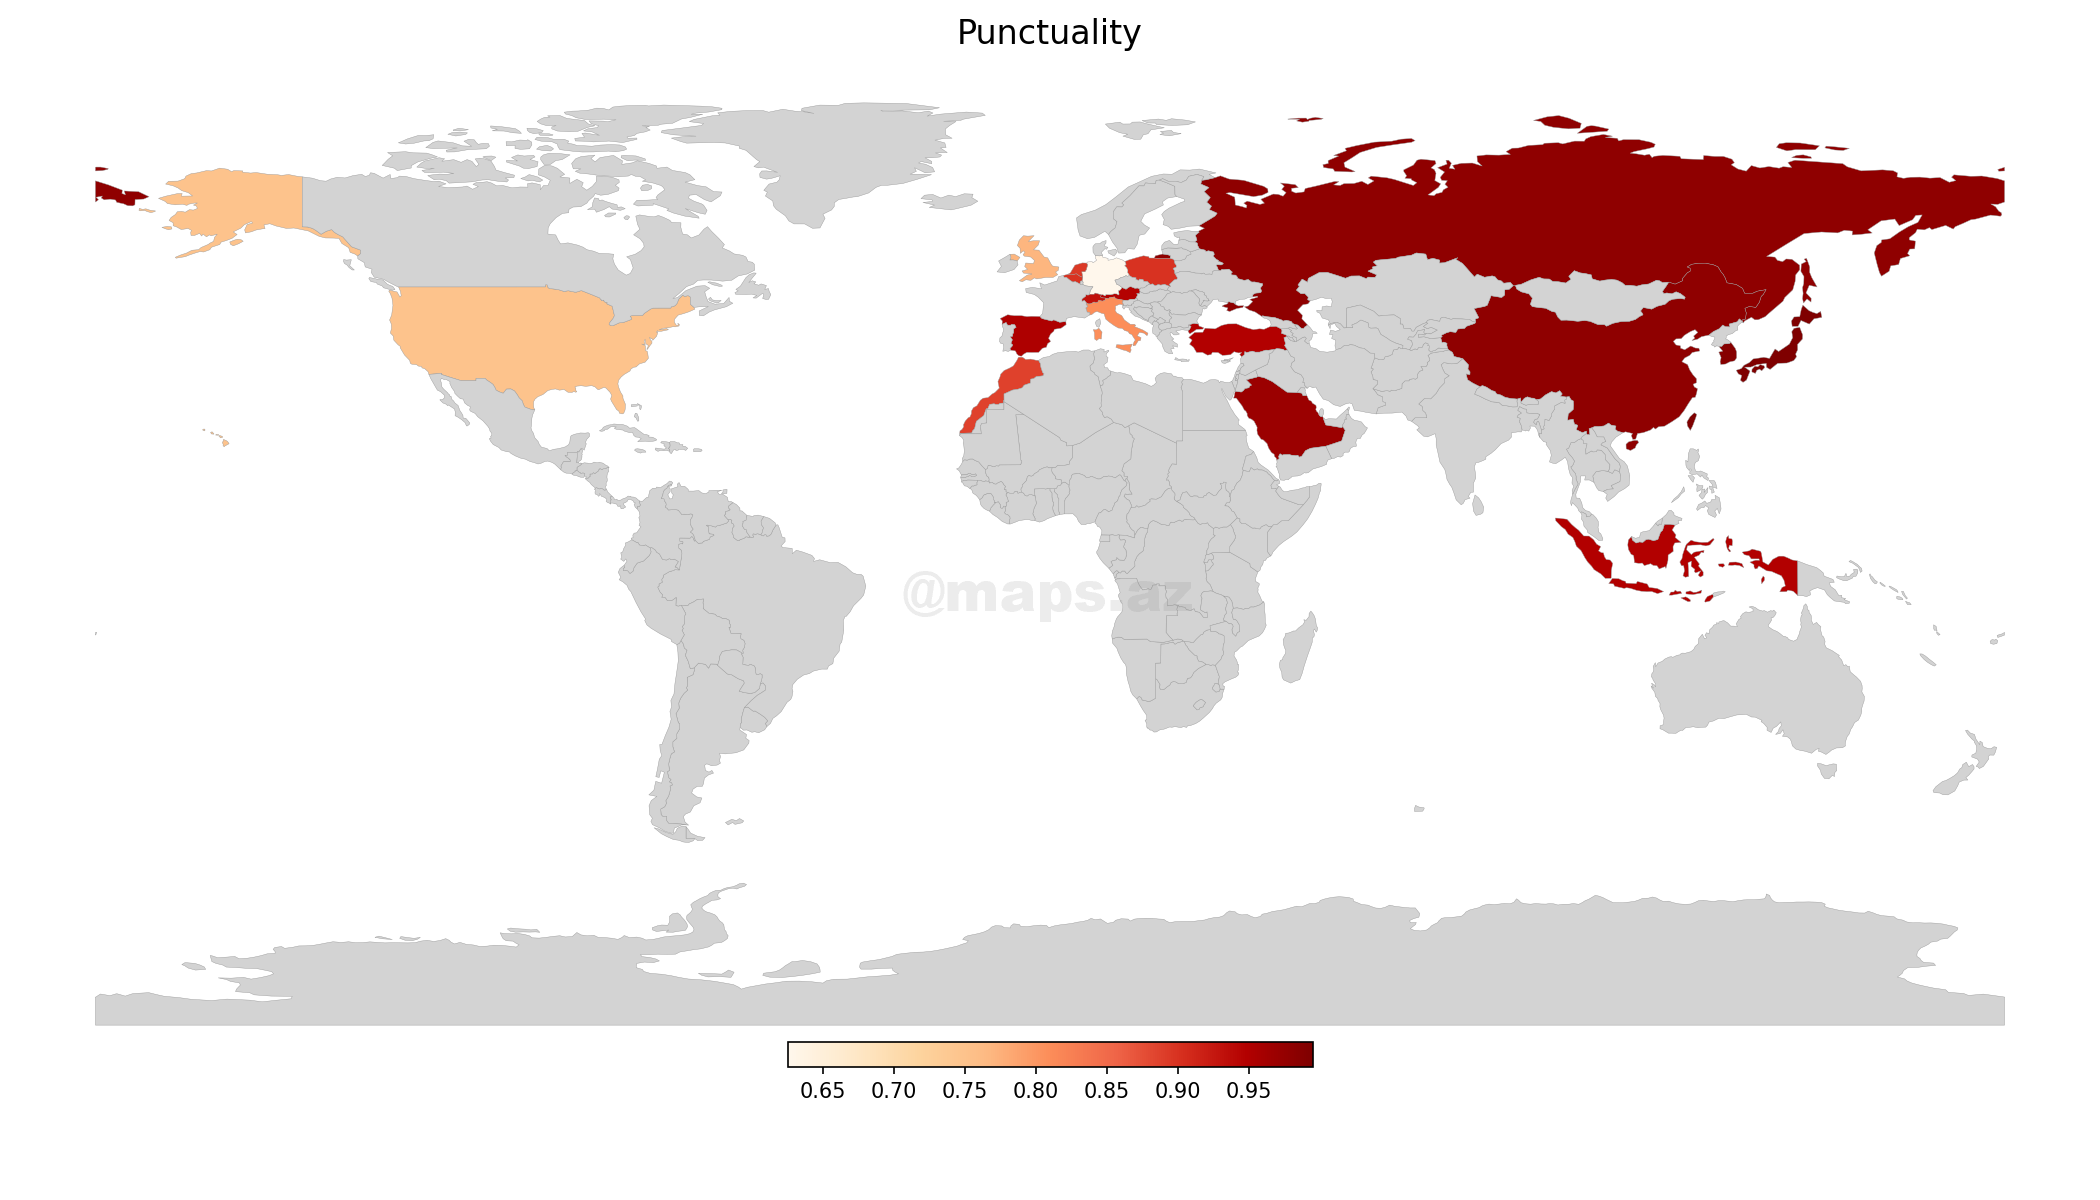
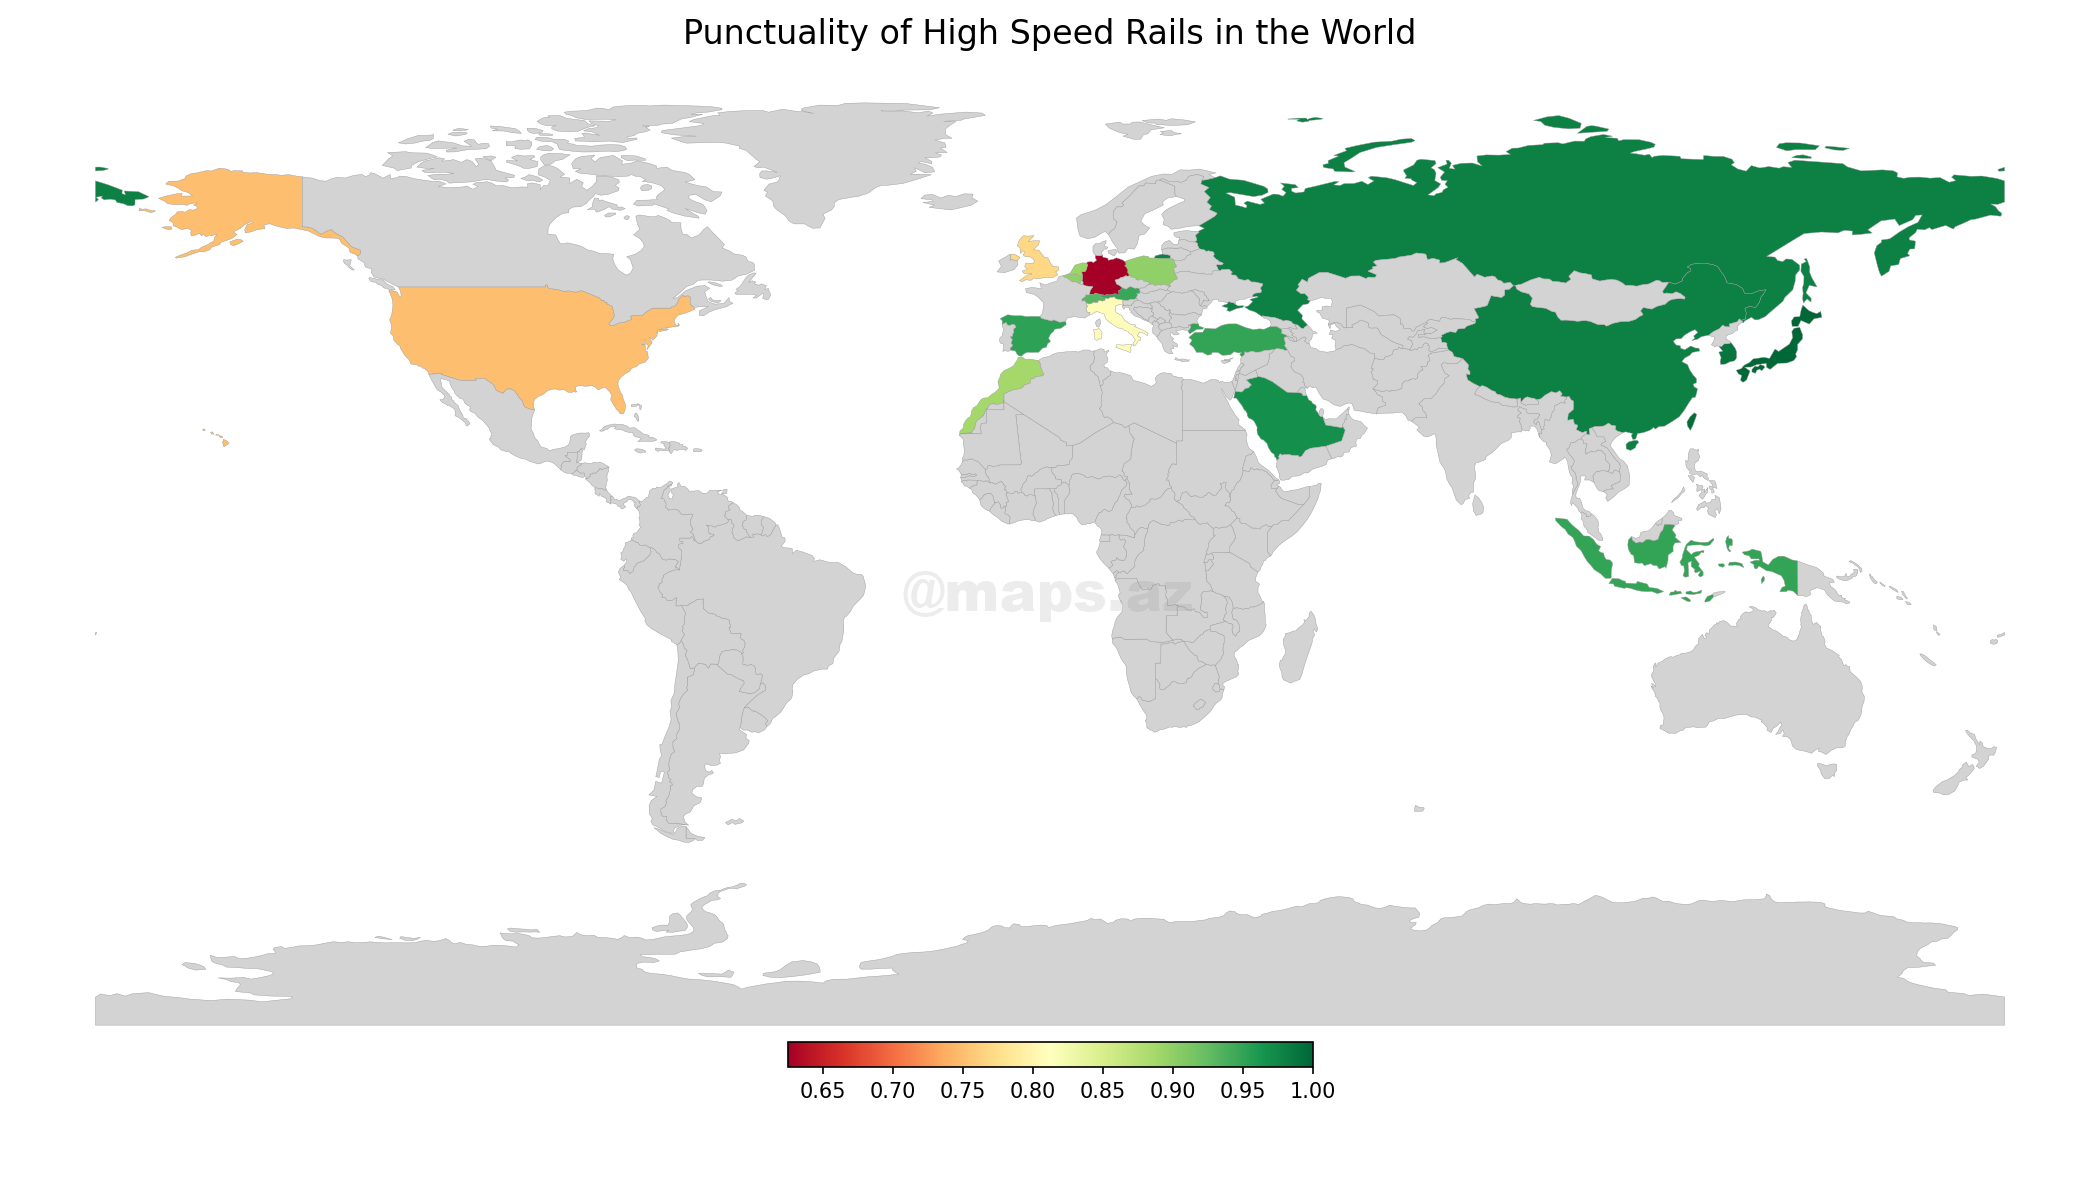
Changed colormap

diff --git a/generate_choropleth.py b/generate_choropleth.py
@@ -16,6 +16,7 @@ import pandas as pd
 import geopandas as gpd
 import matplotlib.pyplot as plt
 from mpl_toolkits.axes_grid1.inset_locator import inset_axes
+from matplotlib.colors import LinearSegmentedColormap
 
 try:
     import pycountry
@@ -39,7 +40,8 @@ DEFAULT_WATERMARK = os.path.join(os.path.dirname(__file__), 'assets', 'watermark
 
 # == Configuration (tweak these at the top of the file) ==
 # Colormap for static matplotlib plot (common matplotlib colormap name)
-DEFAULT_COLORMAP = 'OrRd'
+# DEFAULT_COLORMAP = LinearSegmentedColormap.from_list("custom_red_green", ["red", "green"])
+DEFAULT_COLORMAP = 'RdYlGn'
 # Colormap / fill color for interactive folium map
 DEFAULT_INTERACTIVE_COLORMAP = 'YlOrRd'
 # Title template for plots; can include `{value_col}` to insert the column name
